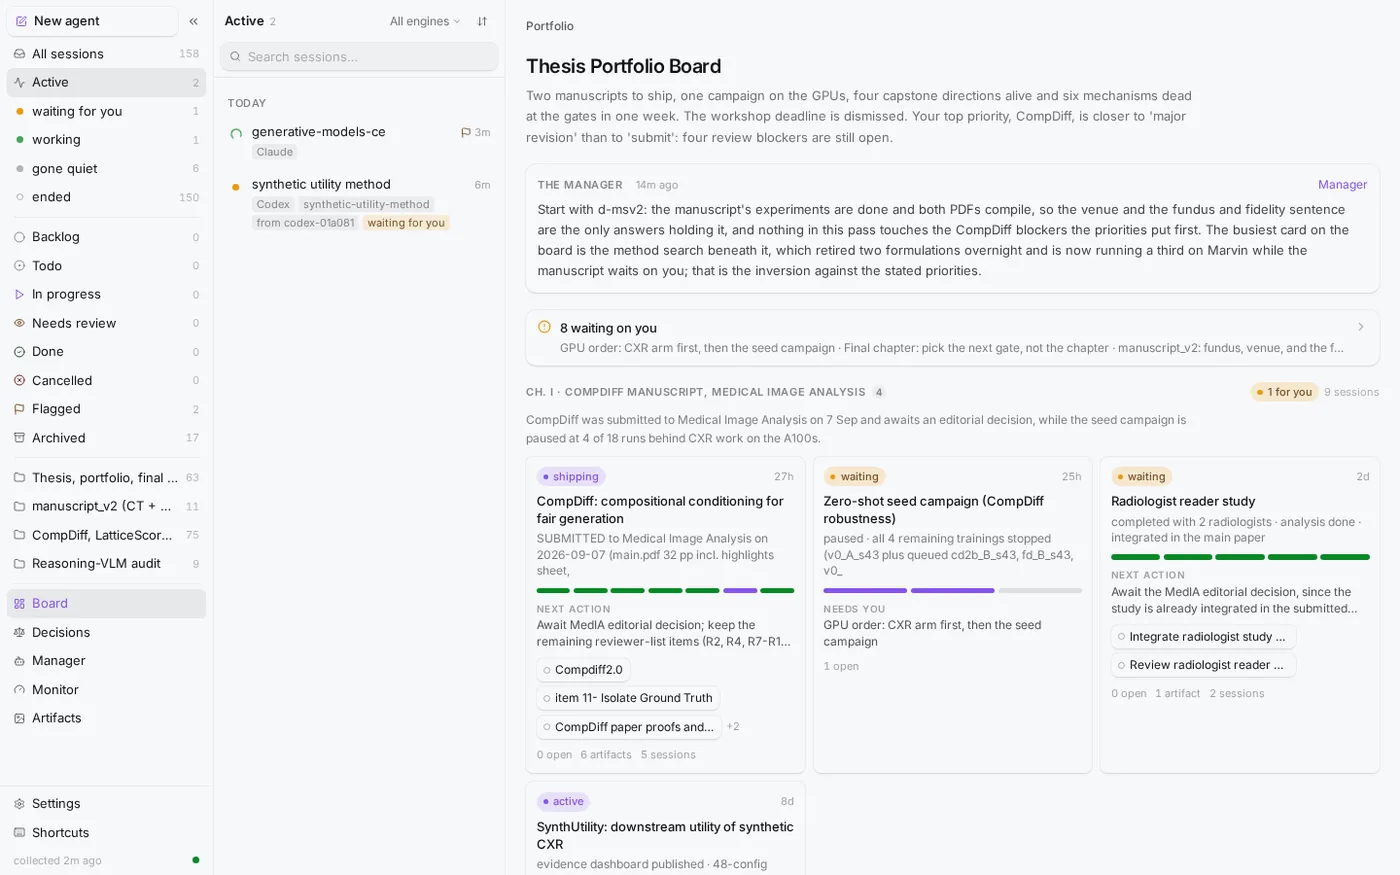
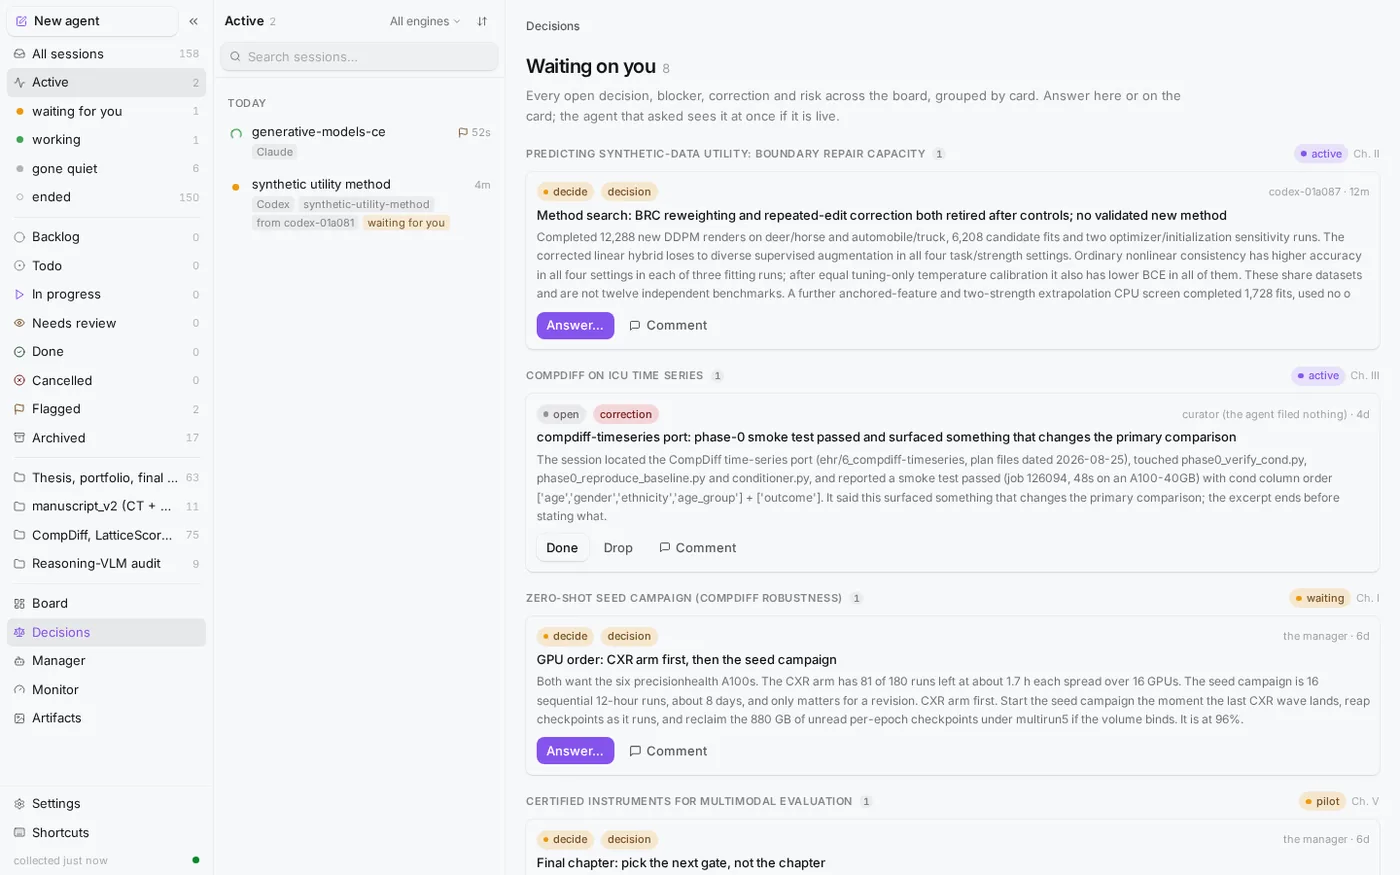
Update CompDiff to the revised v4 preprint
- New title and eight authors for the CompDiff publication
- News item for the revised preprint (zero-shot on 16 unseen chest X-ray
  intersections, blinded two-radiologist reader study)
- CompDiff project page rewritten with the v4 method, baselines and results
- Drop the portfolio-board screenshot from the orchestrator gallery

diff --git a/src/projects.ts b/src/projects.ts
@@ -66,7 +66,6 @@ export const projects: Project[] = [
       'Tasks: a Jira-style board synced both ways with GitHub issues',
       'A task synced from its GitHub issue: the spec, and one click to dispatch it, hand it to a running agent or close it',
       'Dispatching a task: pick the engine, the subscription, the model and the effort',
-      'Portfolio board: the manager agent summarises where every research line stands',
       'Waiting on you: every decision and blocker the agents escalated, answerable in place',
       'Answering an agent\'s terminal prompt from the portal',
       'Starting an agent on a project card, on Claude or Codex',
@@ -216,13 +215,15 @@ export const projects: Project[] = [
     summary:
       'Code and model weights for my CompDiff paper: a diffusion model that generates chest X-rays and fundus images for any combination of demographic attributes, including combinations it never saw in training.',
     what: [
-      'A hierarchical compositional diffusion model for fair medical image generation. It learns each demographic attribute (age, sex, race) separately, composes them into one demographic token, and conditions a fine-tuned Stable Diffusion on it, so it can generate realistic chest X-rays and fundus images for rare or completely unseen combinations.',
+      'A compositional diffusion model for fair medical image generation. It encodes each demographic attribute (age, sex, race) separately, composes them as supervised demographic tokens alongside the clinical text, and conditions a fine-tuned Stable Diffusion on them, so it can generate realistic chest X-rays and fundus images for rare or completely unseen combinations.',
+      'On 16 chest X-ray intersections held out of training entirely, it had the lowest FID of all the generators in every one. In a blinded reader study of those unseen groups, two radiologists gave its images the highest scores for anatomical realism and for matching the clinical impression.',
     ],
     why: [
       'Generative models trained on imbalanced medical data inherit that imbalance: they are worst exactly for the rare patient groups where synthetic data would help most. My PhD is about making generative models fair and trustworthy for the patients they serve, and intersectional groups are where standard models break.',
     ],
     how: [
-      'A hierarchical conditioner network builds the demographic token from per-attribute embeddings, and it is concatenated with the clinical-text embedding as cross-attention context for Stable Diffusion. Evaluated for image quality, subgroup equity and zero-shot generalisation to held-out intersections, and for the utility of the synthetic images downstream: classifiers trained on them gain AUROC with reduced demographic bias. Trained on GPU clusters; the code, the project page and the trained weights for both modalities are public.',
+      'A hierarchical conditioner network builds the demographic tokens from per-attribute embeddings, and they join the clinical-text embedding as cross-attention context for Stable Diffusion. I compared it against prompt conditioning (RoentGen-v2) and loss reweighting (FairDiffusion), each trained with three seeds per modality, for image quality, subgroup fidelity and zero-shot generalisation, and ran a blinded reader study with two radiologists.',
+      'Then the downstream test: pretraining classifiers on CompDiff images improved classification, and synthetic audit cohorts from CompDiff reduced the error in estimating performance on rare intersections. Trained on GPU clusters; the code, the project page and the trained weights for both modalities are public.',
     ],
     stack: ['PyTorch', 'Stable Diffusion', 'Diffusion Models', 'Medical Imaging', 'SLURM'],
     category: 'Research',

diff --git a/src/data.ts b/src/data.ts
@@ -27,6 +27,12 @@ export const cvData = {
   news: [
     {
       date: "Sep 2026",
+      type: "Preprint",
+      text: "Substantially revised CompDiff preprint on arXiv (v4): zero-shot generation for 16 chest X-ray intersections never seen in training, and a blinded reader study in which two radiologists rated its images the most realistic.",
+      link: "#publications",
+    },
+    {
+      date: "Sep 2026",
       type: "Build",
       text: "Built a platform to plan, dispatch and supervise a fleet of AI agents: a GitHub-synced task board, a manager agent, and work that carries on across subscriptions.",
       link: "#project/research-orchestrator",
@@ -58,7 +64,7 @@ export const cvData = {
     {
       date: "Mar 2026",
       type: "Preprint",
-      text: "New preprint released. CompDiff: Hierarchical Compositional Diffusion for Fair and Zero-Shot Intersectional Medical Image Generation (under review).",
+      text: "New preprint released: CompDiff, compositional diffusion for fair medical image generation across demographic intersections.",
       link: "#publications",
     },
     {
@@ -163,8 +169,8 @@ export const cvData = {
   ],
   publications: [
     {
-      title: "CompDiff: Hierarchical Compositional Diffusion for Fair and Zero-Shot Intersectional Medical Image Generation",
-      authors: "M. Ibrahim, B. Elen, C. Sun, G. Ertaylan, M. Dumontier",
+      title: "CompDiff enables fair and zero-shot medical image generation across demographic intersections through compositional diffusion",
+      authors: "M. Ibrahim, B. Elen, C. Sun, A. Jiblawi, M. M. Saleh, Maryam K. Ibrahim, G. Ertaylan, M. Dumontier",
       journal: "arXiv preprint (under review)",
       year: "2026",
       link: "https://arxiv.org/abs/2603.16551",
